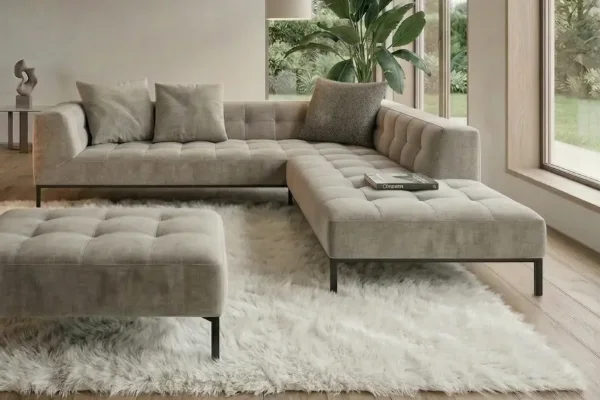
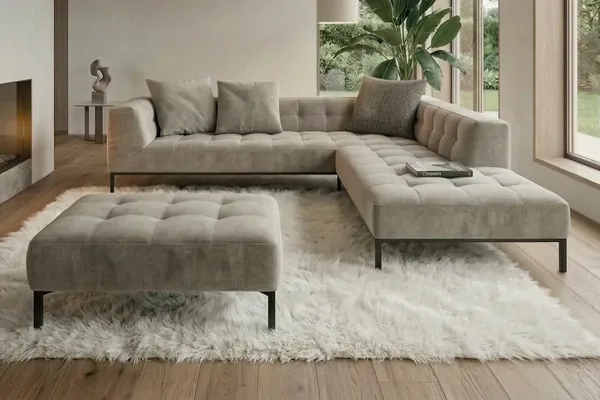
Vorschau aus b0bb16b: Modelluebersicht: Lucca mit Hocker und Modular mit ganzem Sofa im Kartenbild

diff --git a/en/modell-modular.html b/en/modell-modular.html
@@ -16,10 +16,10 @@
 <meta property="og:title" content="Modular – sofatrend">
 <meta property="og:description" content="Organically shaped base elements, freely combinable. Modular does without armrests and instead works with round and straight base elements, loose back …">
 <meta property="og:url" content="https://timkleinegesse.github.io/mywebsite/en/modell-modular.html">
-<meta property="og:image" content="https://timkleinegesse.github.io/mywebsite/assets/img/modelle/modular-card-1800.webp?v=262b3bfa">
+<meta property="og:image" content="https://timkleinegesse.github.io/mywebsite/assets/img/modelle/modular-card-1800.webp?v=1d5a4b43">
 <script>document.documentElement.className += ' js';</script>
-<link rel="preload" as="image" href="../assets/img/modelle/modular-card-1200.webp?v=df6972e8"
-      imagesrcset="../assets/img/modelle/modular-card-600.webp?v=e616b5ce 600w, ../assets/img/modelle/modular-card-1200.webp?v=df6972e8 1200w, ../assets/img/modelle/modular-card-1800.webp?v=262b3bfa 1800w"
+<link rel="preload" as="image" href="../assets/img/modelle/modular-card-1200.webp?v=dcf81a03"
+      imagesrcset="../assets/img/modelle/modular-card-600.webp?v=a54ce26d 600w, ../assets/img/modelle/modular-card-1200.webp?v=dcf81a03 1200w, ../assets/img/modelle/modular-card-1800.webp?v=1d5a4b43 1800w"
       imagesizes="(min-width: 1300px) 700px, (min-width: 900px) 56vw, 94vw" fetchpriority="high">
 <link rel="preload" href="../assets/fonts/inter-latin.woff2" as="font" type="font/woff2" crossorigin>
 <link rel="preload" href="../assets/fonts/sourceserif4-latin.woff2" as="font" type="font/woff2" crossorigin>
@@ -45,7 +45,7 @@
       },
       "category": "Polstermöbel",
       "description": "Organically shaped base elements, freely combinable. Modular does without armrests and instead works with round and straight base elements, loose back cushions and generous stools. The seat is pocket spring core throughout.",
-      "image": "https://timkleinegesse.github.io/mywebsite/assets/img/modelle/modular-card-1800.webp?v=262b3bfa",
+      "image": "https://timkleinegesse.github.io/mywebsite/assets/img/modelle/modular-card-1800.webp?v=1d5a4b43",
       "url": "https://timkleinegesse.github.io/mywebsite/en/modell-modular.html"
     },
     {
@@ -102,8 +102,8 @@
   <section class="section model-head">
     <div class="wrap model-head__grid">
       <div class="model-head__media">
-        <img src="../assets/img/modelle/modular-card-1200.webp?v=df6972e8"
-             srcset="../assets/img/modelle/modular-card-600.webp?v=e616b5ce 600w, ../assets/img/modelle/modular-card-1200.webp?v=df6972e8 1200w, ../assets/img/modelle/modular-card-1800.webp?v=262b3bfa 1800w"
+        <img src="../assets/img/modelle/modular-card-1200.webp?v=dcf81a03"
+             srcset="../assets/img/modelle/modular-card-600.webp?v=a54ce26d 600w, ../assets/img/modelle/modular-card-1200.webp?v=dcf81a03 1200w, ../assets/img/modelle/modular-card-1800.webp?v=1d5a4b43 1800w"
              sizes="(min-width: 1300px) 700px, (min-width: 900px) 56vw, 94vw"
              alt="Modular in a living room setting" width="1800" height="1200"
              fetchpriority="high" decoding="async">

diff --git a/modell-modular.html b/modell-modular.html
@@ -16,10 +16,10 @@
 <meta property="og:title" content="Modular – sofatrend">
 <meta property="og:description" content="Organisch geformte Basiselemente, frei kombinierbar. Modular verzichtet auf Armlehnen und arbeitet stattdessen mit runden und geraden Basiselementen, …">
 <meta property="og:url" content="https://timkleinegesse.github.io/mywebsite/modell-modular.html">
-<meta property="og:image" content="https://timkleinegesse.github.io/mywebsite/assets/img/modelle/modular-card-1800.webp?v=262b3bfa">
+<meta property="og:image" content="https://timkleinegesse.github.io/mywebsite/assets/img/modelle/modular-card-1800.webp?v=1d5a4b43">
 <script>document.documentElement.className += ' js';</script>
-<link rel="preload" as="image" href="assets/img/modelle/modular-card-1200.webp?v=df6972e8"
-      imagesrcset="assets/img/modelle/modular-card-600.webp?v=e616b5ce 600w, assets/img/modelle/modular-card-1200.webp?v=df6972e8 1200w, assets/img/modelle/modular-card-1800.webp?v=262b3bfa 1800w"
+<link rel="preload" as="image" href="assets/img/modelle/modular-card-1200.webp?v=dcf81a03"
+      imagesrcset="assets/img/modelle/modular-card-600.webp?v=a54ce26d 600w, assets/img/modelle/modular-card-1200.webp?v=dcf81a03 1200w, assets/img/modelle/modular-card-1800.webp?v=1d5a4b43 1800w"
       imagesizes="(min-width: 1300px) 700px, (min-width: 900px) 56vw, 94vw" fetchpriority="high">
 <link rel="preload" href="assets/fonts/inter-latin.woff2" as="font" type="font/woff2" crossorigin>
 <link rel="preload" href="assets/fonts/sourceserif4-latin.woff2" as="font" type="font/woff2" crossorigin>
@@ -45,7 +45,7 @@
       },
       "category": "Polstermöbel",
       "description": "Organisch geformte Basiselemente, frei kombinierbar. Modular verzichtet auf Armlehnen und arbeitet stattdessen mit runden und geraden Basiselementen, losen Rückenkissen und großzügigen Hockern. Der Sitz besteht durchgehend aus Tonnentaschenfederkern.",
-      "image": "https://timkleinegesse.github.io/mywebsite/assets/img/modelle/modular-card-1800.webp?v=262b3bfa",
+      "image": "https://timkleinegesse.github.io/mywebsite/assets/img/modelle/modular-card-1800.webp?v=1d5a4b43",
       "url": "https://timkleinegesse.github.io/mywebsite/modell-modular.html"
     },
     {
@@ -102,8 +102,8 @@
   <section class="section model-head">
     <div class="wrap model-head__grid">
       <div class="model-head__media">
-        <img src="assets/img/modelle/modular-card-1200.webp?v=df6972e8"
-             srcset="assets/img/modelle/modular-card-600.webp?v=e616b5ce 600w, assets/img/modelle/modular-card-1200.webp?v=df6972e8 1200w, assets/img/modelle/modular-card-1800.webp?v=262b3bfa 1800w"
+        <img src="assets/img/modelle/modular-card-1200.webp?v=dcf81a03"
+             srcset="assets/img/modelle/modular-card-600.webp?v=a54ce26d 600w, assets/img/modelle/modular-card-1200.webp?v=dcf81a03 1200w, assets/img/modelle/modular-card-1800.webp?v=1d5a4b43 1800w"
              sizes="(min-width: 1300px) 700px, (min-width: 900px) 56vw, 94vw"
              alt="Modular in einer Wohnszene" width="1800" height="1200"
              fetchpriority="high" decoding="async">

diff --git a/en/modell-lucca.html b/en/modell-lucca.html
@@ -16,10 +16,10 @@
 <meta property="og:title" content="Lucca – sofatrend">
 <meta property="og:description" content="Compact, with convertible corner and bench stool. Lucca is the compact newcomer: convertible corner, bench stool and wide 1-seater elements on a small footprint.">
 <meta property="og:url" content="https://timkleinegesse.github.io/mywebsite/en/modell-lucca.html">
-<meta property="og:image" content="https://timkleinegesse.github.io/mywebsite/assets/img/modelle/lucca-card-1800.webp?v=a5c2b457">
+<meta property="og:image" content="https://timkleinegesse.github.io/mywebsite/assets/img/modelle/lucca-card-1800.webp?v=907565f0">
 <script>document.documentElement.className += ' js';</script>
-<link rel="preload" as="image" href="../assets/img/modelle/lucca-card-1200.webp?v=f1b8f8ce"
-      imagesrcset="../assets/img/modelle/lucca-card-600.webp?v=e4605b2a 600w, ../assets/img/modelle/lucca-card-1200.webp?v=f1b8f8ce 1200w, ../assets/img/modelle/lucca-card-1800.webp?v=a5c2b457 1800w"
+<link rel="preload" as="image" href="../assets/img/modelle/lucca-card-1200.webp?v=31e0e25e"
+      imagesrcset="../assets/img/modelle/lucca-card-600.webp?v=8ed224fe 600w, ../assets/img/modelle/lucca-card-1200.webp?v=31e0e25e 1200w, ../assets/img/modelle/lucca-card-1800.webp?v=907565f0 1800w"
       imagesizes="(min-width: 1300px) 700px, (min-width: 900px) 56vw, 94vw" fetchpriority="high">
 <link rel="preload" href="../assets/fonts/inter-latin.woff2" as="font" type="font/woff2" crossorigin>
 <link rel="preload" href="../assets/fonts/sourceserif4-latin.woff2" as="font" type="font/woff2" crossorigin>
@@ -45,7 +45,7 @@
       },
       "category": "Polstermöbel",
       "description": "Compact, with convertible corner and bench stool. Lucca is the compact newcomer: convertible corner, bench stool and wide 1-seater elements on a small footprint.",
-      "image": "https://timkleinegesse.github.io/mywebsite/assets/img/modelle/lucca-card-1800.webp?v=a5c2b457",
+      "image": "https://timkleinegesse.github.io/mywebsite/assets/img/modelle/lucca-card-1800.webp?v=907565f0",
       "url": "https://timkleinegesse.github.io/mywebsite/en/modell-lucca.html"
     },
     {
@@ -102,8 +102,8 @@
   <section class="section model-head">
     <div class="wrap model-head__grid">
       <div class="model-head__media">
-        <img src="../assets/img/modelle/lucca-card-1200.webp?v=f1b8f8ce"
-             srcset="../assets/img/modelle/lucca-card-600.webp?v=e4605b2a 600w, ../assets/img/modelle/lucca-card-1200.webp?v=f1b8f8ce 1200w, ../assets/img/modelle/lucca-card-1800.webp?v=a5c2b457 1800w"
+        <img src="../assets/img/modelle/lucca-card-1200.webp?v=31e0e25e"
+             srcset="../assets/img/modelle/lucca-card-600.webp?v=8ed224fe 600w, ../assets/img/modelle/lucca-card-1200.webp?v=31e0e25e 1200w, ../assets/img/modelle/lucca-card-1800.webp?v=907565f0 1800w"
              sizes="(min-width: 1300px) 700px, (min-width: 900px) 56vw, 94vw"
              alt="Lucca in a living room setting" width="1800" height="1200"
              fetchpriority="high" decoding="async">

diff --git a/modell-lucca.html b/modell-lucca.html
@@ -16,10 +16,10 @@
 <meta property="og:title" content="Lucca – sofatrend">
 <meta property="og:description" content="Kompakt mit Umbauecke und Hockerbank. Lucca ist die kompakte Neuheit: Umbauecke, Hockerbank und breite 1-Sitzer-Elemente auf kleiner Stellfläche.">
 <meta property="og:url" content="https://timkleinegesse.github.io/mywebsite/modell-lucca.html">
-<meta property="og:image" content="https://timkleinegesse.github.io/mywebsite/assets/img/modelle/lucca-card-1800.webp?v=a5c2b457">
+<meta property="og:image" content="https://timkleinegesse.github.io/mywebsite/assets/img/modelle/lucca-card-1800.webp?v=907565f0">
 <script>document.documentElement.className += ' js';</script>
-<link rel="preload" as="image" href="assets/img/modelle/lucca-card-1200.webp?v=f1b8f8ce"
-      imagesrcset="assets/img/modelle/lucca-card-600.webp?v=e4605b2a 600w, assets/img/modelle/lucca-card-1200.webp?v=f1b8f8ce 1200w, assets/img/modelle/lucca-card-1800.webp?v=a5c2b457 1800w"
+<link rel="preload" as="image" href="assets/img/modelle/lucca-card-1200.webp?v=31e0e25e"
+      imagesrcset="assets/img/modelle/lucca-card-600.webp?v=8ed224fe 600w, assets/img/modelle/lucca-card-1200.webp?v=31e0e25e 1200w, assets/img/modelle/lucca-card-1800.webp?v=907565f0 1800w"
       imagesizes="(min-width: 1300px) 700px, (min-width: 900px) 56vw, 94vw" fetchpriority="high">
 <link rel="preload" href="assets/fonts/inter-latin.woff2" as="font" type="font/woff2" crossorigin>
 <link rel="preload" href="assets/fonts/sourceserif4-latin.woff2" as="font" type="font/woff2" crossorigin>
@@ -45,7 +45,7 @@
       },
       "category": "Polstermöbel",
       "description": "Kompakt mit Umbauecke und Hockerbank. Lucca ist die kompakte Neuheit: Umbauecke, Hockerbank und breite 1-Sitzer-Elemente auf kleiner Stellfläche.",
-      "image": "https://timkleinegesse.github.io/mywebsite/assets/img/modelle/lucca-card-1800.webp?v=a5c2b457",
+      "image": "https://timkleinegesse.github.io/mywebsite/assets/img/modelle/lucca-card-1800.webp?v=907565f0",
       "url": "https://timkleinegesse.github.io/mywebsite/modell-lucca.html"
     },
     {
@@ -102,8 +102,8 @@
   <section class="section model-head">
     <div class="wrap model-head__grid">
       <div class="model-head__media">
-        <img src="assets/img/modelle/lucca-card-1200.webp?v=f1b8f8ce"
-             srcset="assets/img/modelle/lucca-card-600.webp?v=e4605b2a 600w, assets/img/modelle/lucca-card-1200.webp?v=f1b8f8ce 1200w, assets/img/modelle/lucca-card-1800.webp?v=a5c2b457 1800w"
+        <img src="assets/img/modelle/lucca-card-1200.webp?v=31e0e25e"
+             srcset="assets/img/modelle/lucca-card-600.webp?v=8ed224fe 600w, assets/img/modelle/lucca-card-1200.webp?v=31e0e25e 1200w, assets/img/modelle/lucca-card-1800.webp?v=907565f0 1800w"
              sizes="(min-width: 1300px) 700px, (min-width: 900px) 56vw, 94vw"
              alt="Lucca in einer Wohnszene" width="1800" height="1200"
              fetchpriority="high" decoding="async">

diff --git a/en/kollektion.html b/en/kollektion.html
@@ -98,7 +98,7 @@
   </a>
   <a class="model-card" href="modell-modular.html">
     <div class="model-card__media model-card__media--cover">
-      <img src="../assets/img/modelle/modular-card-600.webp?v=e616b5ce" srcset="../assets/img/modelle/modular-card-600.webp?v=e616b5ce 600w, ../assets/img/modelle/modular-card-1200.webp?v=df6972e8 1200w"
+      <img src="../assets/img/modelle/modular-card-600.webp?v=a54ce26d" srcset="../assets/img/modelle/modular-card-600.webp?v=a54ce26d 600w, ../assets/img/modelle/modular-card-1200.webp?v=dcf81a03 1200w"
            sizes="(min-width: 1000px) 33vw, (min-width: 640px) 50vw, 100vw" alt="" loading="lazy" width="1200" height="800">
     </div>
     <div class="model-card__body">
@@ -188,7 +188,7 @@
   </a>
   <a class="model-card" href="modell-lucca.html">
     <div class="model-card__media model-card__media--cover">
-      <img src="../assets/img/modelle/lucca-card-600.webp?v=e4605b2a" srcset="../assets/img/modelle/lucca-card-600.webp?v=e4605b2a 600w, ../assets/img/modelle/lucca-card-1200.webp?v=f1b8f8ce 1200w"
+      <img src="../assets/img/modelle/lucca-card-600.webp?v=8ed224fe" srcset="../assets/img/modelle/lucca-card-600.webp?v=8ed224fe 600w, ../assets/img/modelle/lucca-card-1200.webp?v=31e0e25e 1200w"
            sizes="(min-width: 1000px) 33vw, (min-width: 640px) 50vw, 100vw" alt="" loading="lazy" width="1200" height="800">
     </div>
     <div class="model-card__body">

diff --git a/kollektion.html b/kollektion.html
@@ -98,7 +98,7 @@
   </a>
   <a class="model-card" href="modell-modular.html">
     <div class="model-card__media model-card__media--cover">
-      <img src="assets/img/modelle/modular-card-600.webp?v=e616b5ce" srcset="assets/img/modelle/modular-card-600.webp?v=e616b5ce 600w, assets/img/modelle/modular-card-1200.webp?v=df6972e8 1200w"
+      <img src="assets/img/modelle/modular-card-600.webp?v=a54ce26d" srcset="assets/img/modelle/modular-card-600.webp?v=a54ce26d 600w, assets/img/modelle/modular-card-1200.webp?v=dcf81a03 1200w"
            sizes="(min-width: 1000px) 33vw, (min-width: 640px) 50vw, 100vw" alt="" loading="lazy" width="1200" height="800">
     </div>
     <div class="model-card__body">
@@ -188,7 +188,7 @@
   </a>
   <a class="model-card" href="modell-lucca.html">
     <div class="model-card__media model-card__media--cover">
-      <img src="assets/img/modelle/lucca-card-600.webp?v=e4605b2a" srcset="assets/img/modelle/lucca-card-600.webp?v=e4605b2a 600w, assets/img/modelle/lucca-card-1200.webp?v=f1b8f8ce 1200w"
+      <img src="assets/img/modelle/lucca-card-600.webp?v=8ed224fe" srcset="assets/img/modelle/lucca-card-600.webp?v=8ed224fe 600w, assets/img/modelle/lucca-card-1200.webp?v=31e0e25e 1200w"
            sizes="(min-width: 1000px) 33vw, (min-width: 640px) 50vw, 100vw" alt="" loading="lazy" width="1200" height="800">
     </div>
     <div class="model-card__body">

diff --git a/en/modell-bellagio.html b/en/modell-bellagio.html
@@ -241,7 +241,7 @@
       <div class="model-grid">
   <a class="model-card" href="modell-modular.html">
     <div class="model-card__media model-card__media--cover">
-      <img src="../assets/img/modelle/modular-card-600.webp?v=e616b5ce" srcset="../assets/img/modelle/modular-card-600.webp?v=e616b5ce 600w, ../assets/img/modelle/modular-card-1200.webp?v=df6972e8 1200w"
+      <img src="../assets/img/modelle/modular-card-600.webp?v=a54ce26d" srcset="../assets/img/modelle/modular-card-600.webp?v=a54ce26d 600w, ../assets/img/modelle/modular-card-1200.webp?v=dcf81a03 1200w"
            sizes="(min-width: 1000px) 33vw, (min-width: 640px) 50vw, 100vw" alt="" loading="lazy" width="1200" height="800">
     </div>
     <div class="model-card__body">

diff --git a/en/modell-amalfi.html b/en/modell-amalfi.html
@@ -225,7 +225,7 @@
       <div class="model-grid">
   <a class="model-card" href="modell-lucca.html">
     <div class="model-card__media model-card__media--cover">
-      <img src="../assets/img/modelle/lucca-card-600.webp?v=e4605b2a" srcset="../assets/img/modelle/lucca-card-600.webp?v=e4605b2a 600w, ../assets/img/modelle/lucca-card-1200.webp?v=f1b8f8ce 1200w"
+      <img src="../assets/img/modelle/lucca-card-600.webp?v=8ed224fe" srcset="../assets/img/modelle/lucca-card-600.webp?v=8ed224fe 600w, ../assets/img/modelle/lucca-card-1200.webp?v=31e0e25e 1200w"
            sizes="(min-width: 1000px) 33vw, (min-width: 640px) 50vw, 100vw" alt="" loading="lazy" width="1200" height="800">
     </div>
     <div class="model-card__body">

diff --git a/modell-bellagio.html b/modell-bellagio.html
@@ -242,7 +242,7 @@
       <div class="model-grid">
   <a class="model-card" href="modell-modular.html">
     <div class="model-card__media model-card__media--cover">
-      <img src="assets/img/modelle/modular-card-600.webp?v=e616b5ce" srcset="assets/img/modelle/modular-card-600.webp?v=e616b5ce 600w, assets/img/modelle/modular-card-1200.webp?v=df6972e8 1200w"
+      <img src="assets/img/modelle/modular-card-600.webp?v=a54ce26d" srcset="assets/img/modelle/modular-card-600.webp?v=a54ce26d 600w, assets/img/modelle/modular-card-1200.webp?v=dcf81a03 1200w"
            sizes="(min-width: 1000px) 33vw, (min-width: 640px) 50vw, 100vw" alt="" loading="lazy" width="1200" height="800">
     </div>
     <div class="model-card__body">

diff --git a/en/modell-deep-seat.html b/en/modell-deep-seat.html
@@ -256,7 +256,7 @@
   </a>
   <a class="model-card" href="modell-modular.html">
     <div class="model-card__media model-card__media--cover">
-      <img src="../assets/img/modelle/modular-card-600.webp?v=e616b5ce" srcset="../assets/img/modelle/modular-card-600.webp?v=e616b5ce 600w, ../assets/img/modelle/modular-card-1200.webp?v=df6972e8 1200w"
+      <img src="../assets/img/modelle/modular-card-600.webp?v=a54ce26d" srcset="../assets/img/modelle/modular-card-600.webp?v=a54ce26d 600w, ../assets/img/modelle/modular-card-1200.webp?v=dcf81a03 1200w"
            sizes="(min-width: 1000px) 33vw, (min-width: 640px) 50vw, 100vw" alt="" loading="lazy" width="1200" height="800">
     </div>
     <div class="model-card__body">

diff --git a/en/modell-modena.html b/en/modell-modena.html
@@ -248,7 +248,7 @@
   </a>
   <a class="model-card" href="modell-modular.html">
     <div class="model-card__media model-card__media--cover">
-      <img src="../assets/img/modelle/modular-card-600.webp?v=e616b5ce" srcset="../assets/img/modelle/modular-card-600.webp?v=e616b5ce 600w, ../assets/img/modelle/modular-card-1200.webp?v=df6972e8 1200w"
+      <img src="../assets/img/modelle/modular-card-600.webp?v=a54ce26d" srcset="../assets/img/modelle/modular-card-600.webp?v=a54ce26d 600w, ../assets/img/modelle/modular-card-1200.webp?v=dcf81a03 1200w"
            sizes="(min-width: 1000px) 33vw, (min-width: 640px) 50vw, 100vw" alt="" loading="lazy" width="1200" height="800">
     </div>
     <div class="model-card__body">

diff --git a/modell-amalfi.html b/modell-amalfi.html
@@ -226,7 +226,7 @@
       <div class="model-grid">
   <a class="model-card" href="modell-lucca.html">
     <div class="model-card__media model-card__media--cover">
-      <img src="assets/img/modelle/lucca-card-600.webp?v=e4605b2a" srcset="assets/img/modelle/lucca-card-600.webp?v=e4605b2a 600w, assets/img/modelle/lucca-card-1200.webp?v=f1b8f8ce 1200w"
+      <img src="assets/img/modelle/lucca-card-600.webp?v=8ed224fe" srcset="assets/img/modelle/lucca-card-600.webp?v=8ed224fe 600w, assets/img/modelle/lucca-card-1200.webp?v=31e0e25e 1200w"
            sizes="(min-width: 1000px) 33vw, (min-width: 640px) 50vw, 100vw" alt="" loading="lazy" width="1200" height="800">
     </div>
     <div class="model-card__body">
